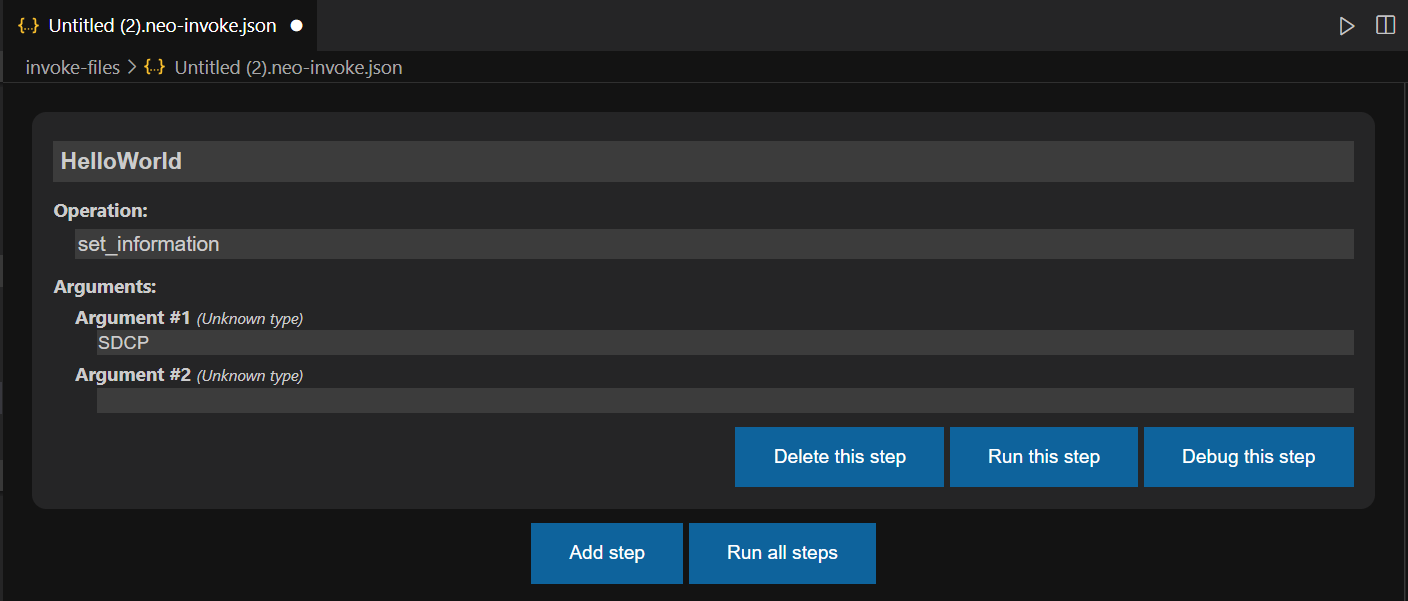
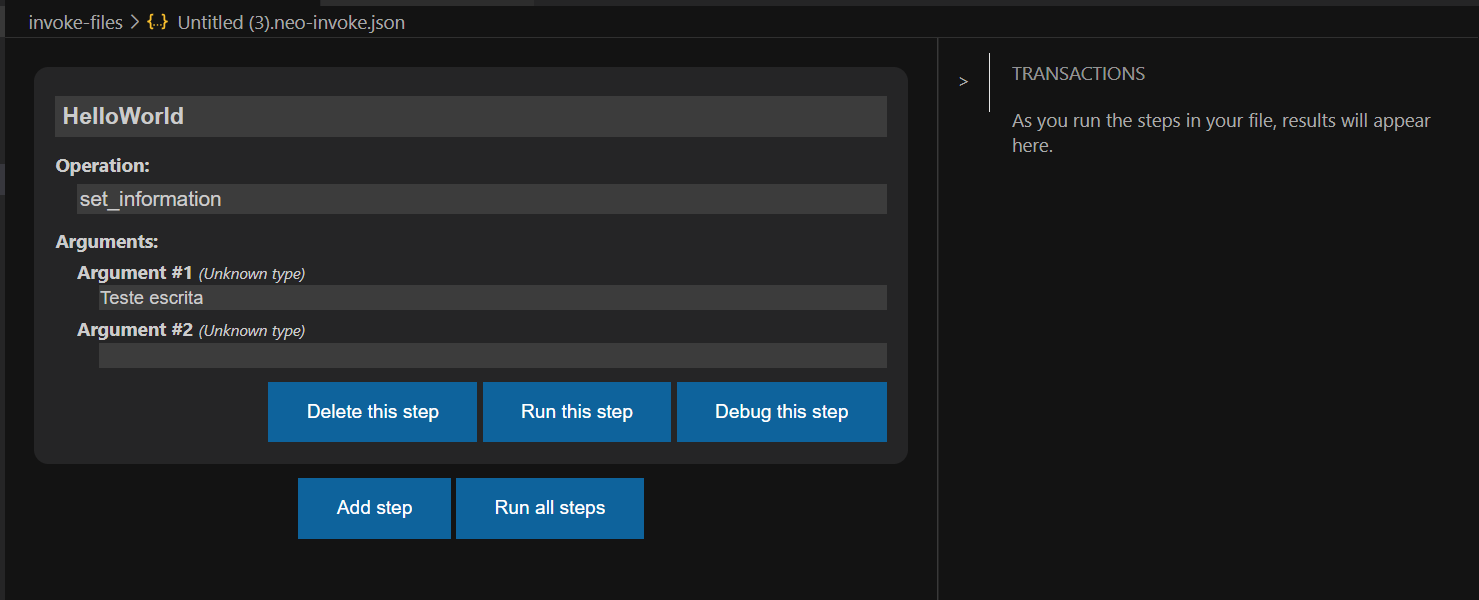
doc v3.4

diff --git a/POC/README.md b/POC/README.md
@@ -136,7 +136,7 @@ Existem várias wallets compatíveis com a blockchain da Neo 3, nós recomendamo
 
 ### Publicando o contrato
 Nesse tutorial iremos publicar apenas na rede privada por questões de tempo. Então tendo compilado o contrato, transfira da carteira genesis (o primeiro nó da blockchain) 100 GAS para a carteira que você criou. Após isso na aba `QUICK START`:
-- Clique no botão `Invoke a contract`;
+- Clique no botão `Deploy a contract`;
 - Selecione a carteira na qual quer atrelar ao contrato;
 - Selecione o arquivo de extensão `.nef` do contrato;
 Pronto, seu contrato está publicado na rede local.
@@ -150,7 +150,10 @@ Para usar o contrato é preciso "invocar" ele. Para isso, na aba `QUICK START`:
 - Selecione o contrato o seu contrato;
 - Digite no campo `Operation` o nome do método a ser usado;
 - Inclua os parâmetros, caso tenha, na seção `Arguments`, caso sua função tenha mais de um parâmetro, de um clique na janela aberta e irá aparecer um novo campo para adicionar o próximo argumento;
-![Exemplo Chamada](/POC/doc-images/exemplo-chamada-de-metodo.png "Exemplo Chamada")
+
+![Exemplo Chamada Get](/POC/doc-images/exemplo-chamada-de-metodo-get.png "Exemplo Chamada Get")
+
+![Exemplo Chamada Set](/POC/doc-images/exemplo-chamada-de-metodo.png "Exemplo Chamada Set")
 
 - Clique em `Run this step`;
 - Escolha a wallet que usará o contrato;
